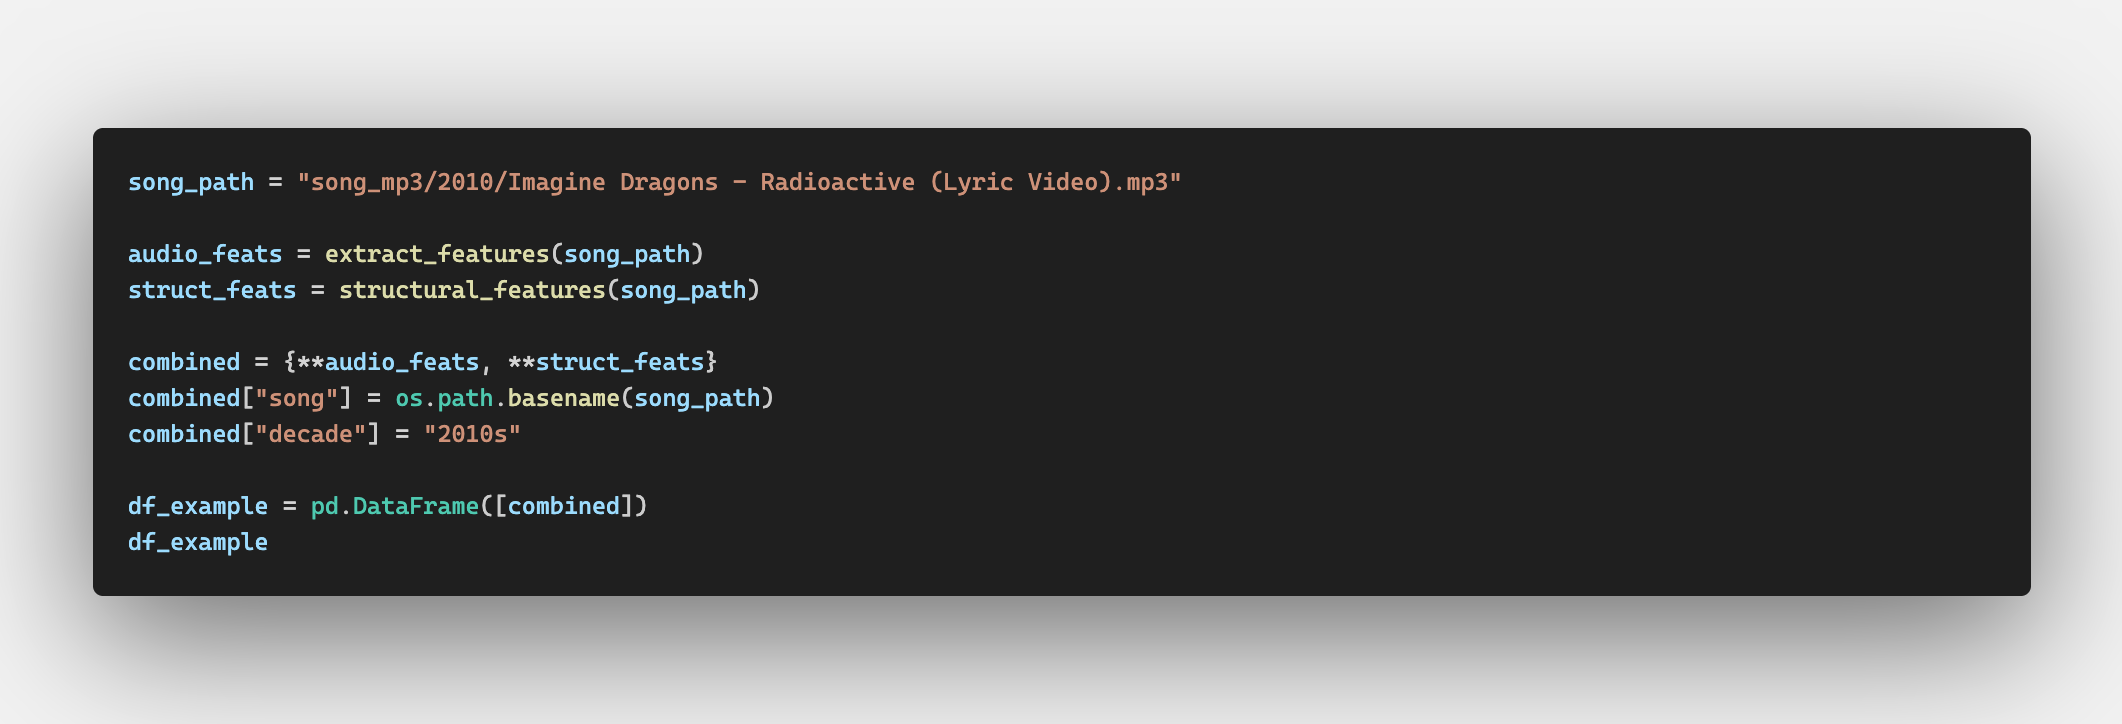
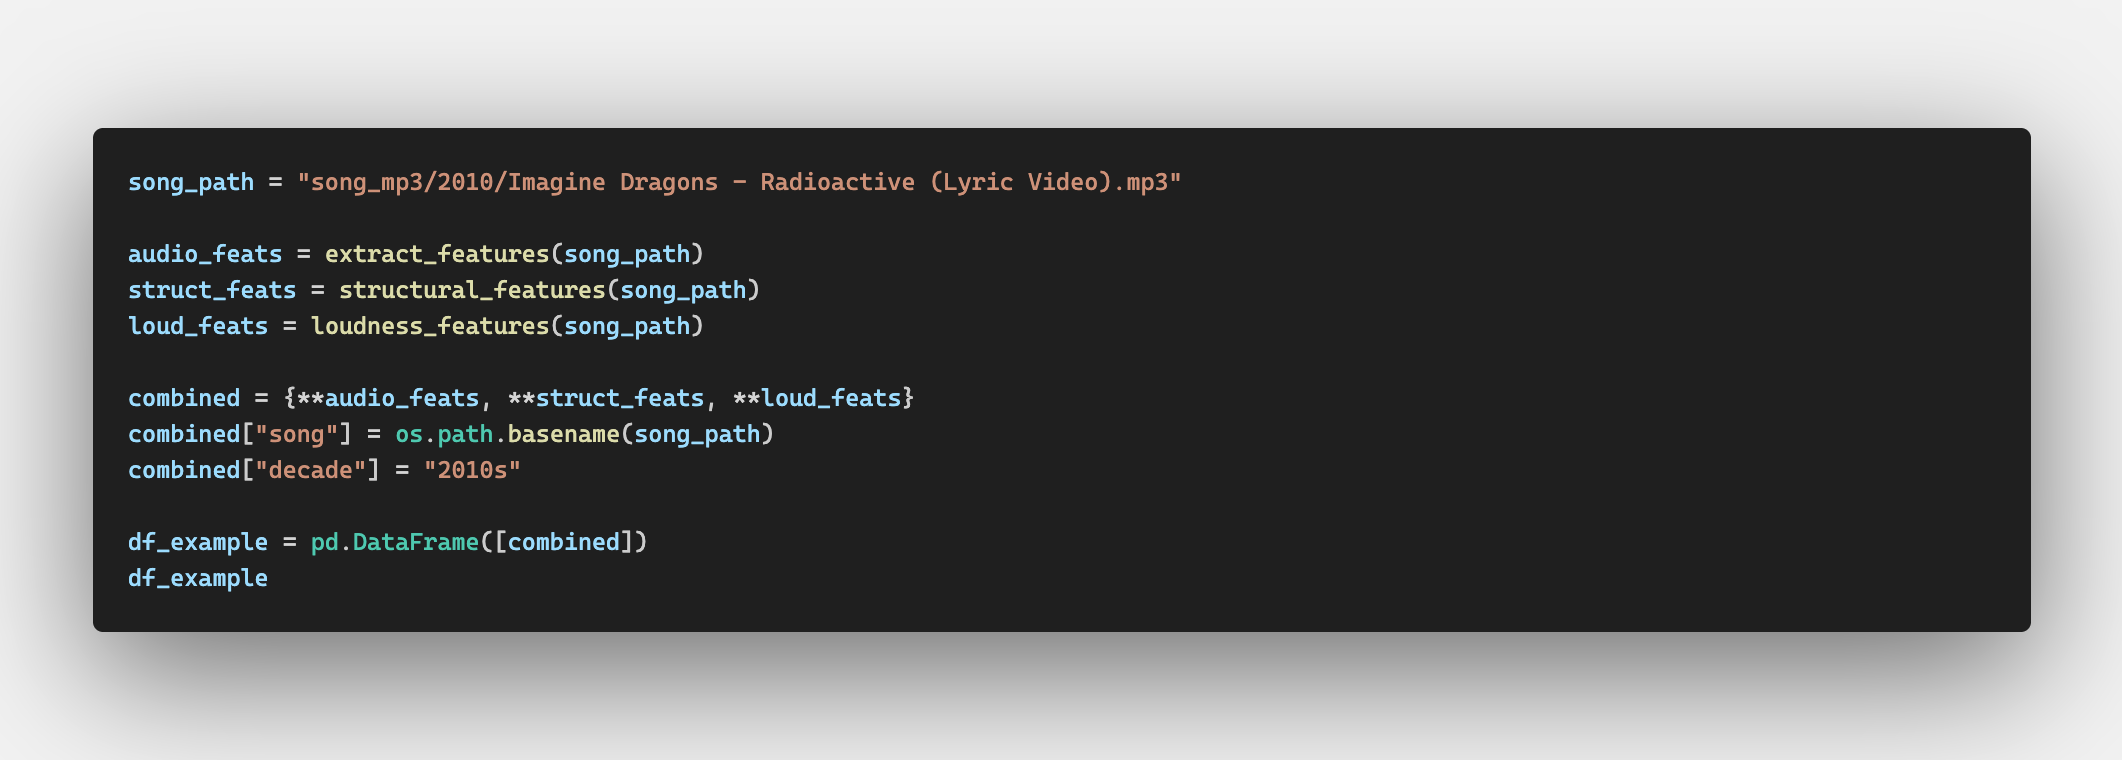
Update pipeline example pictures

diff --git a/docs/index.html b/docs/index.html
@@ -75,6 +75,7 @@ Visit our code repository <a href="https://github.com/cbolson22/Top10SongSimilar
 </p>
 <img src="code_img/librosa_code.png" style="max-width: 60%; display: block; margin-bottom: 10px;" alt="Librosa Feature Extraction Code">
 <img src="code_img/msaf_code.png" style="max-width: 60%; display: block; margin-bottom: 10px;" alt="MSAF Structural Segmentation Code">
+<img src="code_img/loudness_code.png" style="max-width: 60%; display: block; margin-bottom: 10px;" alt="Loudness Feature Extraction Code">
 <img src="code_img/make_df.png" style="max-width: 60%; display: block; margin-bottom: 10px;" alt="DataFrame Construction Code">
 <img src="code_img/df_results.png" style="max-width: 90%; display: block;" alt="Resulting DataFrame">
 </div>
